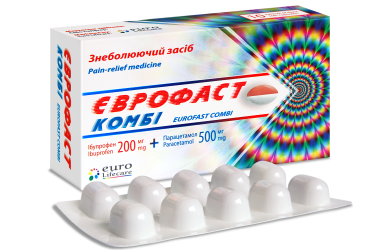
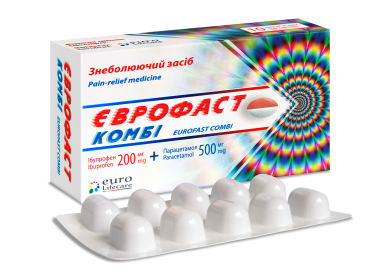
Hero section tablet

diff --git a/css/main.css b/css/main.css
@@ -106,6 +106,10 @@ p {
     @media screen and (min-width: 425px) {
         width: 280px
     }
+
+    @media screen and (min-width: 768px) {
+        width: 480px
+    }
 }
 
 .hero-slogan {
@@ -121,6 +125,10 @@ p {
         @media screen and (min-width: 425px) {
             top: 13%;
         }
+
+        @media screen and (min-width: 768px) {
+            top: 12%;
+        }
 }
 
 .softcaps-200 {
@@ -130,9 +138,13 @@ p {
             margin-top: 160px;
         }
 
-         @media screen and (min-width: 425px) {
-            margin-top: 210px;
-         }
+    @media screen and (min-width: 425px) {
+        margin-top: 210px;
+        }
+
+    @media screen and (min-width: 768px) {
+        margin-top: 400px;
+    }
 }
 
 .softcaps-400 {
